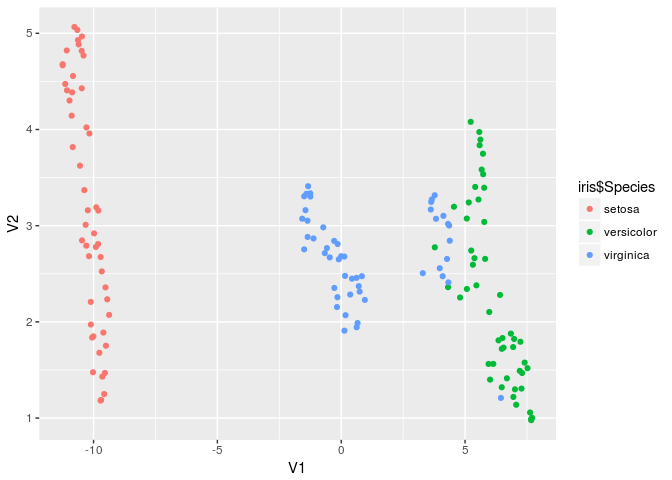
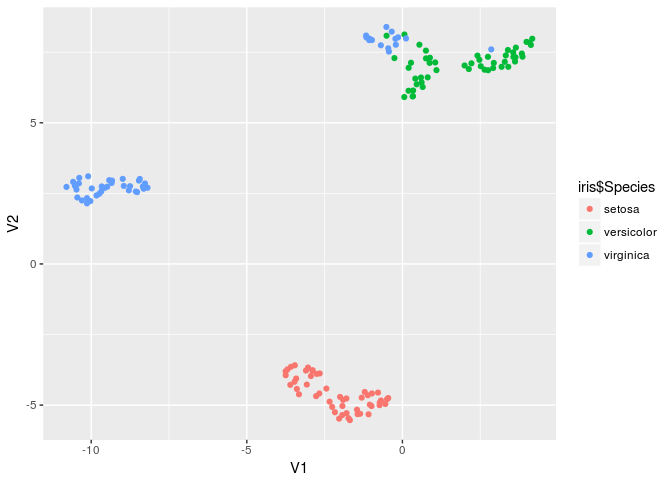
Put whole vignette into README

diff --git a/README.md b/README.md
@@ -5,17 +5,10 @@ umapr
 
 [![Travis-CI Build Status](https://travis-ci.org/ropenscilabs/umapr.svg?branch=master)](https://travis-ci.org/ropenscilabs/umapr)
 
-`umapr` makes it easy to run [UMAP](https://github.com/lmcinnes/umap) from R. UMAP was created by Leland McInnes and John Healy ([arxiv](https://arxiv.org/abs/1802.03426)).
+Uniform Manifold Approximation and Projection (UMAP) is a non-linear dimensionality reduction algorithm. It is similar to t-SNE but computationally more efficient. UMAP was created by Leland McInnes and John Healy ([github](https://github.com/lmcinnes/umap), [arxiv](https://arxiv.org/abs/1802.03426)). `umapr` wraps the Python implementation of UMAP to make the algorithm accessible from within R.
 
-Installation
-------------
-
-You can install umapr from github with:
-
-``` r
-# install.packages("devtools")
-devtools::install_github("ropenscilabs/umapr")
-```
+Basic use
+---------
 
 Here is an example of running UMAP on the `iris` data set.
 
@@ -26,20 +19,80 @@ embedding <- as.data.frame(umap(as.matrix(iris[ , 1:4])))
 
 # look at result
 head(embedding)
-#>           V1       V2
-#> 1 -10.184218 2.682828
-#> 2 -10.651983 5.034732
-#> 3 -10.969165 4.301109
-#> 4 -10.827896 4.555806
-#> 5 -10.291350 2.792164
-#> 6  -9.764767 1.678716
+#>           V1        V2
+#> 1 -1.7324369 -5.463769
+#> 2 -2.8849956 -3.761887
+#> 3 -3.6021864 -4.281125
+#> 4 -3.4141524 -4.057291
+#> 5 -1.9330339 -5.352357
+#> 6 -0.6892355 -4.836187
 
 # plot result
-library(ggplot2)
+suppressPackageStartupMessages(library(tidyverse))
 ggplot(embedding, aes(x = V1, y = V2, color = iris$Species)) + 
   geom_point()
 ```
 
 ![](README-unnamed-chunk-2-1.png)
 
-See the vignette for more detailed examples.
+`umap` returns a data frame with two columns containing the UMAP embeddings of the original data and (optionally) the original data attached.
+
+There are a few important parameters. These are fully described in the UMAP Python [documentation](https://github.com/lmcinnes/umap/blob/bf1c3e5c89ea393c9de10bd66c5e3d9bc30588ee/notebooks/UMAP%20usage%20and%20parameters.ipynb).
+
+The `n_neighbor` argument can range from 2 to n-1 where n is the number of rows in the data.
+
+``` r
+neighbors <- c(4, 8, 16, 32, 64, 128)
+
+f <- lapply(neighbors, function(neighbor) {
+  iris_result <- umap(as.matrix(iris[,1:4]), n_neighbors = as.integer(neighbor))
+  cbind(as.data.frame(iris_result), data.frame(Species = iris$Species))
+})
+
+names(f) <- neighbors
+
+bind_rows(f, .id = "Neighbor") %>% 
+  mutate(Neighbor = as.integer(Neighbor)) %>% 
+  ggplot(aes(V1, V2, color = Species)) + geom_point() + 
+  facet_wrap(~ Neighbor, scales = "free")
+```
+
+![](README-unnamed-chunk-3-1.png)
+
+The `min_dist` argument can range from 0 to 1.
+
+``` r
+dists <- c(0.001, 0.01, 0.05, 0.1, 0.5, 0.99)
+
+f <- lapply(dists, function(dist) {
+  iris_result <- umap(as.matrix(iris[,1:4]), min_dist = dist)
+  cbind(as.data.frame(iris_result), data.frame(Species = iris$Species))
+})
+
+names(f) <- dists
+
+bind_rows(f, .id = "Distance") %>% 
+  ggplot(aes(V1, V2, color = Species)) + geom_point() + 
+  facet_wrap(~ Distance, scales = "free")
+```
+
+![](README-unnamed-chunk-4-1.png)
+
+The `distance` argument can be a bunch of stuff.
+
+``` r
+dists <- c("euclidean", "manhattan", "canberra", "cosine", "hamming", "dice")
+
+f <- lapply(dists, function(dist) {
+  iris_result <- umap(as.matrix(iris[,1:4]), metric = dist)
+  cbind(as.data.frame(iris_result), data.frame(Species = iris$Species))
+})
+
+names(f) <- dists
+
+bind_rows(f, .id = "Metric") %>% 
+  ggplot(aes(V1, V2, color = Species)) + geom_point() + 
+  facet_wrap(~ Metric, scales = "free")
+```
+
+![](README-unnamed-chunk-5-1.png)
